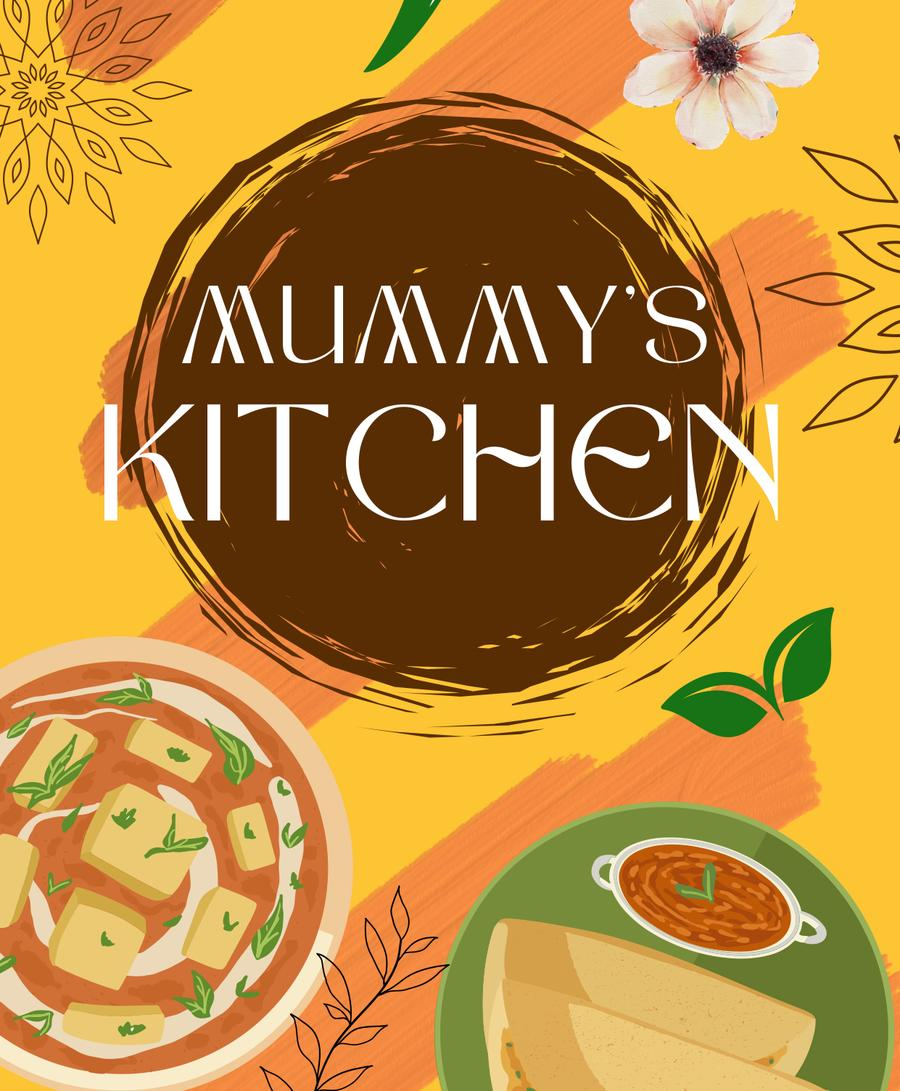
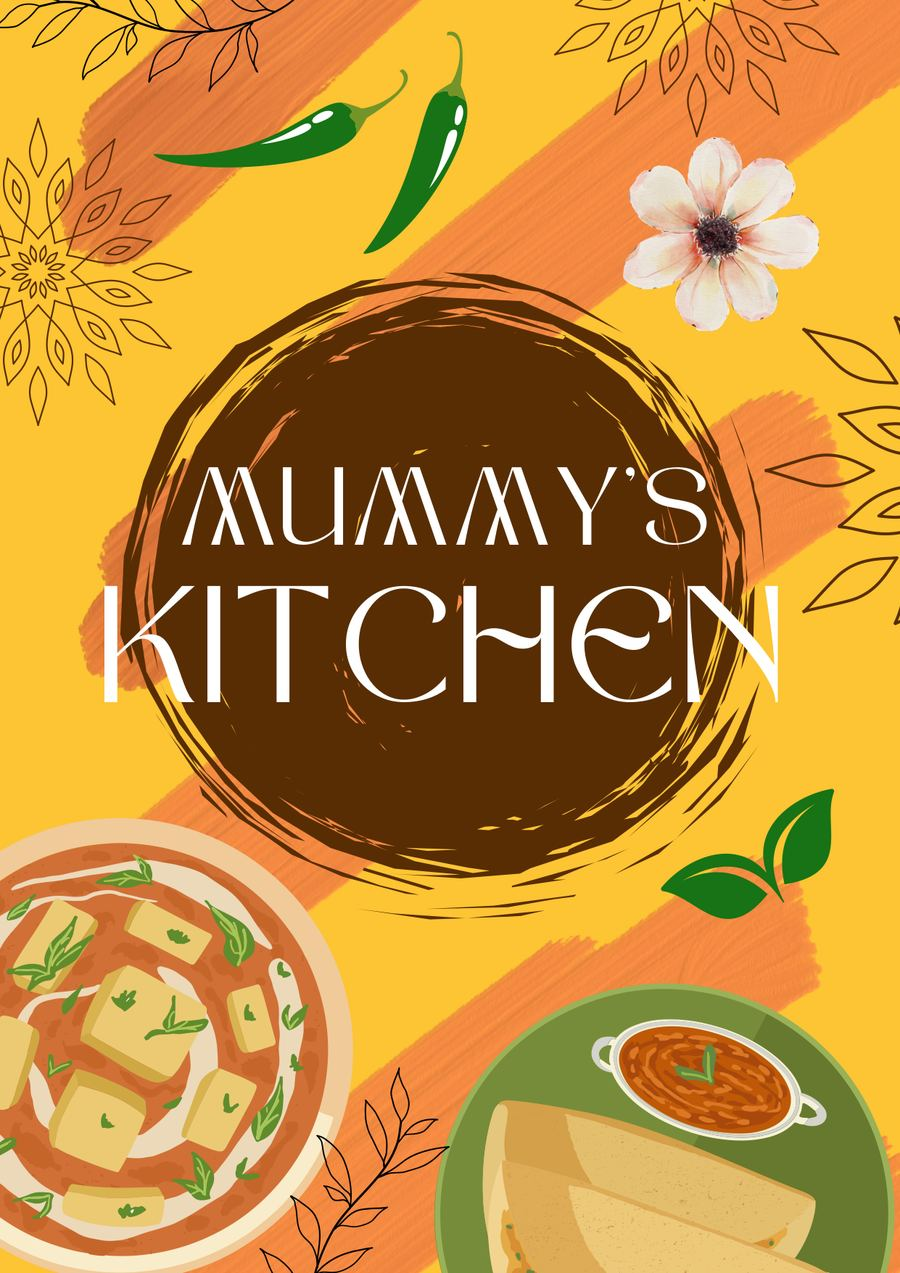
fix(api): show the full Canva cover on the web menu
The cover was cropped at the top, cutting the chillies and flower. Use the whole page,
and version the image URLs so phones that cached the old cover fetch the new one.

diff --git a/apps/api/src/menu/menu-page.ts b/apps/api/src/menu/menu-page.ts
@@ -9,6 +9,8 @@ export type MenuPageItem = Pick<MenuItem, 'name' | 'category' | 'unit' | 'priceP
 // As printed on the Canva menu. The first number gets the "Order on WhatsApp" button.
 const PHONES = ['+91 9830460199', '+91 9123086730'];
 const ORDER_TEXT = "Hi, I'd like to order from Mummy's Kitchen";
+// Images are cached for a day; bump this when one changes so phones fetch the new file.
+const IMAGE_VERSION = 2;
 
 const UNIT_WORDS: Record<string, [string, string]> = {
   pc: ['piece', 'pieces'],
@@ -93,7 +95,7 @@ export function renderMenuPage(items: MenuPageItem[], origin: string): string {
 <meta name="description" content="${description}">
 <meta property="og:title" content="Mummy's Kitchen · Menu">
 <meta property="og:description" content="${description}">
-<meta property="og:image" content="${origin}/menu/cover.jpg">
+<meta property="og:image" content="${origin}/menu/cover.jpg?v=${IMAGE_VERSION}">
 <meta property="og:type" content="website">
 <meta name="theme-color" content="#F4CB61">
 <link rel="preconnect" href="https://fonts.googleapis.com">
@@ -103,8 +105,8 @@ export function renderMenuPage(items: MenuPageItem[], origin: string): string {
 </head>
 <body>
 <div class="page">
-  <img class="cover" alt="Mummy's Kitchen" src="/menu/cover.jpg" width="900" height="1091">
-  <img class="banner" alt="" src="/menu/banner.jpg" width="1200" height="448">
+  <img class="cover" alt="Mummy's Kitchen" src="/menu/cover.jpg?v=${IMAGE_VERSION}" width="900" height="1273">
+  <img class="banner" alt="" src="/menu/banner.jpg?v=${IMAGE_VERSION}" width="1200" height="448">
   <p class="bulk">For bulk orders place order 3 days in advance</p>
   <main class="menu">
 ${sections}

diff --git a/apps/api/src/menu/menu-page.spec.ts b/apps/api/src/menu/menu-page.spec.ts
@@ -59,7 +59,7 @@ describe('renderMenuPage', () => {
     expect(html).toContain('80/ plate');
     expect(html).toContain('(2 pc/plate)');
     expect(html).toContain('Minimum Quantity 4 plates');
-    expect(html).toContain('content="https://example.com/menu/cover.jpg"');
+    expect(html).toContain('content="https://example.com/menu/cover.jpg?v=2"');
     expect(html).not.toContain('<Vada>');
   });
 });
